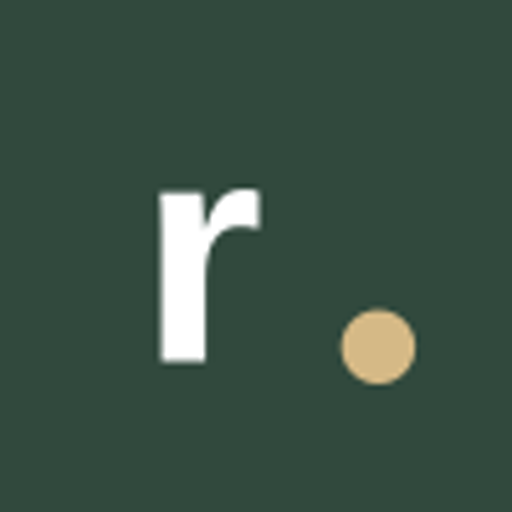
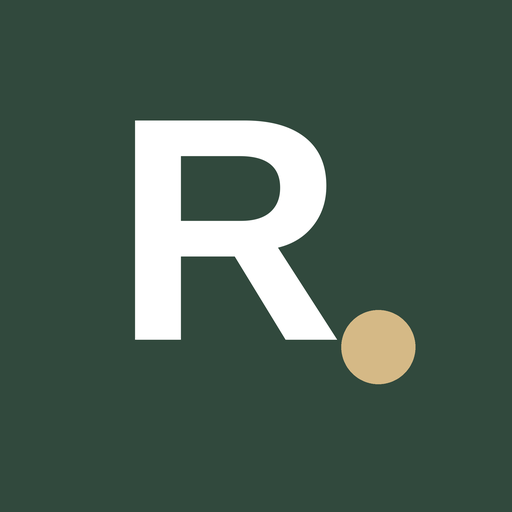
feat: update project name and database references from 'barberia' to 'resolvemesto', enhance .gitignore, and improve manifest details

Changed region(s): [[0.25, 0.2188, 0.6875, 0.7188], [0.6875, 0.625, 0.8125, 0.75], [0.6875, 0.5938, 0.7812, 0.625]]

diff --git a/public/index.html b/public/index.html
@@ -2,22 +2,22 @@
 <html lang="es">
 <head>
   <meta charset="utf-8"><meta name="viewport" content="width=device-width, initial-scale=1, viewport-fit=cover"><meta name="theme-color" content="#f6f5f2">
-  <title>Ritual · Gestión simple</title><link rel="icon" type="image/svg+xml" href="/icon.svg"><link rel="apple-touch-icon" href="/apple-touch-icon.png"><link rel="stylesheet" href="/styles.css?v=20261016-2">
+  <title>Resolvemesto · Gestión simple</title><link rel="icon" type="image/svg+xml" href="/icon.svg"><link rel="apple-touch-icon" href="/apple-touch-icon.png"><link rel="stylesheet" href="/styles.css?v=20261017-1">
 </head>
 <body>
   <div id="loading" class="loading-bar" aria-hidden="true"></div><div id="toast" class="toast" role="status" aria-live="polite"></div>
   <main id="auth" class="auth-wrap">
     <section class="auth-card">
-      <div class="brand-mark">r<span>.</span></div><p class="eyebrow" id="auth-eyebrow">GESTIÓN SIMPLE</p><h1 id="auth-title">Tu espacio,<br>en orden.</h1><p class="muted" id="auth-copy">Ventas, equipo y actividad en un solo lugar.</p>
+      <div class="brand-mark">R<span>.</span></div><p class="eyebrow" id="auth-eyebrow">RESOLVEMESTO · GESTIÓN SIMPLE</p><h1 id="auth-title">Tu espacio,<br>en orden.</h1><p class="muted" id="auth-copy">Ventas, equipo y actividad en un solo lugar.</p>
       <div class="auth-tabs"><button class="tab active" data-auth="login">Ingresar</button><button class="tab" data-auth="register">Crear usuario</button></div>
       <form id="auth-form"><div id="name-field" class="field hidden"><label>Tu nombre</label><input name="name" autocomplete="name" maxlength="100" placeholder="Ej. Lucía Gómez"></div><div id="business-name-field" class="field hidden"><label>Nombre del negocio</label><input name="business_name" maxlength="120" placeholder="Ej. Estudio Norte"></div><div id="auth-photo-field" class="field hidden"><label>Foto de perfil <span class="optional">· opcional</span></label><div class="photo-picker"><div class="photo-preview" id="auth-photo-preview">+</div><div><input id="auth-photo-file" class="visually-hidden" type="file" accept="image/*"><input id="auth-photo-camera" class="visually-hidden" type="file" accept="image/*" capture="user"><label class="button secondary photo-action" for="auth-photo-file">Elegir archivo</label><label class="button secondary photo-action" for="auth-photo-camera">Usar cámara</label></div></div></div><div class="field"><label>Email</label><input name="email" type="email" autocomplete="email" required maxlength="254" placeholder="vos@ejemplo.com"></div><div class="field"><label>Contraseña</label><input name="password" type="password" autocomplete="current-password" required minlength="10" maxlength="200" placeholder="Mínimo 10 caracteres"></div><button class="button primary full" type="submit" id="auth-submit">Ingresar</button></form>
     </section>
   </main>
   <main id="waiting" class="setup-wrap hidden">
-    <section class="setup-card"><div class="brand-mark">r<span>.</span></div><p class="eyebrow">CUENTA CREADA</p><h1>Esperando acceso<br>a tu negocio.</h1><p class="muted">Un administrador debe sumarte a su equipo. Cuando lo haga, ingresá nuevamente para continuar.</p><button class="button secondary full" id="waiting-logout" type="button">Cerrar sesión</button></section>
+    <section class="setup-card"><div class="brand-mark">R<span>.</span></div><p class="eyebrow">RESOLVEMESTO · CUENTA CREADA</p><h1>Esperando acceso<br>a tu negocio.</h1><p class="muted">Un administrador debe sumarte a su equipo. Cuando lo haga, ingresá nuevamente para continuar.</p><button class="button secondary full" id="waiting-logout" type="button">Cerrar sesión</button></section>
   </main>
   <div id="app" class="app hidden">
-    <aside class="sidebar"><a class="brand" href="#"><span class="brand-mark small">r<span>.</span></span><span>ritual</span></a><div id="business-picker"></div><nav><button class="nav-link active" data-page="home"><span>⌂</span> Resumen</button><button class="nav-link" data-page="new-sale"><span>＋</span> Nueva venta</button><button class="nav-link" data-page="sales"><span>▤</span> Ventas</button><button class="nav-link" data-page="customers"><span>♙</span> Clientes</button><button class="nav-link" data-page="catalog"><span>◈</span> Servicios y productos</button><button class="nav-link admin-only hidden" data-page="business"><span>⌘</span> Mi negocio</button><button class="nav-link" data-page="team"><span>♧</span> Equipo</button><button class="nav-link admin-only hidden" data-page="audit"><span>◷</span> Auditoría</button></nav><div class="sidebar-bottom"><div class="sidebar-actions"><button class="nav-link theme-toggle" type="button" aria-label="Activar modo oscuro"><span class="action-icon">☾</span><span class="theme-label action-label">Oscuro</span></button><button class="nav-link shortcut-trigger hidden" type="button" aria-label="Agregar esta pantalla al inicio del celular" title="Acceso Rapido"><span class="action-icon">⌂＋</span><span class="action-label">Acceso Rapido</span></button></div><button class="nav-link" id="logout"><span>↗</span> Cerrar sesión</button><button class="profile" id="edit-profile" type="button" title="Editar foto de perfil"><div class="avatar" id="avatar">·</div><div><strong id="profile-name"></strong><small id="profile-email"></small></div></button></div></aside>
+    <aside class="sidebar"><a class="brand" href="#"><span class="brand-mark small">R<span>.</span></span><span>Resolvemesto</span></a><div id="business-picker"></div><nav><button class="nav-link active" data-page="home"><span>⌂</span> Resumen</button><button class="nav-link" data-page="new-sale"><span>＋</span> Nueva venta</button><button class="nav-link" data-page="sales"><span>▤</span> Ventas</button><button class="nav-link" data-page="customers"><span>♙</span> Clientes</button><button class="nav-link" data-page="catalog"><span>◈</span> Servicios y productos</button><button class="nav-link admin-only hidden" data-page="business"><span>⌘</span> Mi negocio</button><button class="nav-link" data-page="team"><span>♧</span> Equipo</button><button class="nav-link admin-only hidden" data-page="audit"><span>◷</span> Auditoría</button></nav><div class="sidebar-bottom"><div class="sidebar-actions"><button class="nav-link theme-toggle" type="button" aria-label="Activar modo oscuro"><span class="action-icon">☾</span><span class="theme-label action-label">Oscuro</span></button><button class="nav-link shortcut-trigger hidden" type="button" aria-label="Agregar esta pantalla al inicio del celular" title="Acceso Rapido"><span class="action-icon">⌂＋</span><span class="action-label">Acceso Rapido</span></button></div><button class="nav-link" id="logout"><span>↗</span> Cerrar sesión</button><button class="profile" id="edit-profile" type="button" title="Editar foto de perfil"><div class="avatar" id="avatar">·</div><div><strong id="profile-name"></strong><small id="profile-email"></small></div></button></div></aside>
     <div class="main-column"><header class="topbar"><button id="menu-toggle" class="icon-button" type="button" aria-label="Abrir menú" aria-expanded="false">☰</button><div class="top-business"><div id="logo-preview" class="logo-preview">✦</div><div><strong id="top-name"></strong><small id="top-role"></small></div></div><div class="topbar-right"><div class="date-range"><label>Desde <input id="date-start" type="date"></label><label>Hasta <input id="date-end" type="date"></label></div></div></header>
       <section class="content"><div class="page-heading"><div><p class="eyebrow" id="greeting">TU NEGOCIO</p><h1 id="page-title">Resumen</h1></div><button class="button primary" data-go="new-sale">＋ <span>Nueva venta</span></button></div>
       <section id="page-home" class="page"><article class="data-note"><span>●</span><div><strong id="pulse-title">Resumen basado en ventas registradas</strong><small id="pulse-copy">Todavía no hay datos de agenda, caja, stock ni ocupación para evaluar el estado del negocio.</small></div></article><div id="stat-grid" class="stat-grid"><article class="stat-card"><div class="stat-icon lilac">$</div><span id="stat-revenue-label">Facturación</span><strong id="stat-revenue">$0</strong><small id="stat-revenue-caption">Sin comparación disponible</small></article><article id="stat-tickets-card" class="stat-card personal-only hidden"><div class="stat-icon sky">✓</div><span>Mis atenciones</span><strong id="stat-tickets">0</strong><small>Tickets a tu nombre</small></article><article class="stat-card"><div class="stat-icon sky">◷</div><span>Ticket promedio</span><strong id="stat-average-ticket">$0</strong><small id="stat-average-caption">0 operaciones registradas</small></article><article class="stat-card"><div class="stat-icon mint">✂</div><span>Servicios realizados</span><strong id="stat-services">0</strong><small>Servicios en tickets</small></article><article class="stat-card"><div class="stat-icon peach">▧</div><span>Productos vendidos</span><strong id="stat-products">0</strong><small>Unidades en tickets</small></article></div>
@@ -28,7 +28,7 @@
       <section id="page-sales" class="page hidden"><article class="panel sales-panel"><div class="panel-heading"><div><h2>Ventas realizadas</h2><p>Consultá el detalle y corregí las ventas que cargaste.</p></div></div><div id="sales-list"></div></article></section>
       <section id="page-customers" class="page hidden"><div class="customers-panel panel"><div class="panel-heading"><div><h2>Clientes</h2><p>Datos de contacto y última operación</p></div><button class="button primary" id="new-customer">＋ Nuevo cliente</button></div><div id="customers-list"></div></div></section>
       <section id="page-catalog" class="page hidden"><div class="catalog-grid"><article class="panel"><div class="panel-heading"><div><h2>Tu catálogo</h2><p>Servicios y productos con sus precios</p></div></div><div class="add-form"><form id="catalog-form"><div class="field"><label>Nombre</label><input name="name" required placeholder="Ej. Corte clásico"></div><div class="field"><label>Tipo</label><select name="type"><option value="service">Servicio</option><option value="product">Producto</option></select></div><div class="field"><label>Precio (ARS)</label><input name="price" required type="number" min="0" step="1" placeholder="8500"></div><button class="button primary">Agregar</button></form></div><div class="catalog-tools"><div class="catalog-filter" role="group" aria-label="Filtrar catálogo"><button class="catalog-filter-button active" data-catalog-filter="active" type="button">Activos</button><button class="catalog-filter-button" data-catalog-filter="inactive" type="button">Inactivos</button><button class="catalog-filter-button" data-catalog-filter="all" type="button">Todos</button></div><div class="catalog-search"><input id="catalog-search" type="search" placeholder="Buscar productos o servicios…" aria-label="Buscar en el catálogo"></div></div><div id="catalog-list"></div></article></div></section>
-      <section id="page-business" class="page hidden"><article class="panel brand-panel"><div class="panel-heading"><div><h2>Datos de la barbería</h2><p>Actualizá el nombre y el logo que verá tu equipo.</p></div></div><form id="brand-form"><div class="field"><label>Nombre de la barbería</label><input name="name" id="brand-name" required></div><div class="field"><label>Logo</label><input name="logo" type="file" accept="image/*"></div><div id="brand-logo-preview" class="brand-logo-preview">✦</div><button class="button primary">Guardar cambios</button></form></article></section>
+      <section id="page-business" class="page hidden"><article class="panel brand-panel"><div class="panel-heading"><div><h2>Datos del negocio</h2><p>Actualizá el nombre y el logo que verá tu equipo.</p></div></div><form id="brand-form"><div class="field"><label>Nombre del negocio</label><input name="name" id="brand-name" required></div><div class="field"><label>Logo</label><input name="logo" type="file" accept="image/*"></div><div id="brand-logo-preview" class="brand-logo-preview">✦</div><button class="button primary">Guardar cambios</button></form></article></section>
       <section id="page-team" class="page hidden"><div class="team-grid"><article class="panel"><div class="panel-heading"><div><h2>Personas</h2><p>Los empleados ven nombres y roles; los emails quedan reservados para administración.</p></div></div><div id="team-list"></div></article><article id="team-add-panel" class="panel"><div class="panel-heading"><div><h2>Sumar al equipo</h2><p>Creá una cuenta o vinculá una ya registrada.</p></div></div><form id="team-form"><div class="field"><label>Nombre <span class="optional">· para cuenta nueva</span></label><input name="name" autocomplete="name" maxlength="100" placeholder="Ej. Lucía Gómez"></div><div class="field"><label>Email</label><input name="email" type="email" required maxlength="254" placeholder="persona@ejemplo.com"></div><div class="field"><label>Contraseña inicial <span class="optional">· para cuenta nueva</span></label><input name="password" type="password" minlength="10" maxlength="200" autocomplete="new-password" placeholder="Mínimo 10 caracteres"></div><div class="field"><label>Permisos</label><select name="role"><option value="employee">Empleado</option><option value="admin">Administrador</option></select></div><button class="button primary">Agregar persona</button></form><p class="form-note">Para vincular una cuenta existente, ingresá solo su email. Cada persona gestiona su propia contraseña.</p></article></div></section>
       <section id="page-audit" class="page hidden"><article class="panel"><div class="panel-heading"><div><h2>Historial de cambios</h2><p>Quién cambió ventas, catálogo y datos del negocio, y cuándo.</p></div></div><div id="audit-list" class="audit-list"></div></article></section>
       </section>
@@ -40,5 +40,5 @@
   <div id="profile-modal" class="modal hidden" role="dialog" aria-modal="true" aria-labelledby="profile-modal-title"><div class="modal-card"><div class="panel-heading"><div><h2 id="profile-modal-title">Editar perfil</h2><p>Actualizá tu foto o contraseña.</p></div><button type="button" class="close-profile-modal" aria-label="Cerrar">×</button></div><form id="profile-form"><input type="hidden" name="profile_photo"><div class="photo-editor"><div class="photo-preview large" id="profile-photo-preview">+</div><div><input id="profile-photo-file" class="visually-hidden" type="file" accept="image/*"><input id="profile-photo-camera" class="visually-hidden" type="file" accept="image/*" capture="user"><label class="button secondary photo-action" for="profile-photo-file">Elegir archivo</label><label class="button secondary photo-action" for="profile-photo-camera">Usar cámara</label></div></div><div class="field"><label>Contraseña actual <span class="optional">· solo para cambiarla</span></label><input name="current_password" type="password" autocomplete="current-password"></div><div class="field"><label>Nueva contraseña <span class="optional">· mínimo 10 caracteres</span></label><input name="password" type="password" minlength="10" maxlength="200" autocomplete="new-password"></div><button class="button primary full" type="submit">Guardar cambios</button></form></div></div>
   <div id="sale-modal" class="modal hidden" role="dialog" aria-modal="true" aria-labelledby="sale-modal-title"><div class="modal-card sale-modal-card"><div class="panel-heading"><div><h2 id="sale-modal-title">Detalle de venta</h2><p id="sale-modal-copy">Revisá los datos registrados.</p></div><button type="button" class="close-sale-modal" aria-label="Cerrar">×</button></div><div id="sale-status" class="sale-status hidden"></div><form id="edit-sale-form"><input type="hidden" name="id"><div class="field"><label>Cliente <span class="optional">· opcional</span></label><select name="customer_id" id="edit-sale-customer"><option value="">Sin cliente</option></select></div><div class="field"><label>Atendió</label><select name="employee_id" id="edit-sale-employee" required></select></div><div class="field"><label>Servicios y productos</label><select id="edit-item-picker"><option value="">Sumar al ticket…</option></select></div><div id="edit-cart" class="cart"></div><div class="sale-details"><div class="field"><label>Medio de pago</label><select name="payment_method"><option value="cash">Efectivo</option><option value="debit">Débito</option><option value="credit">Crédito</option><option value="transfer">Transferencia</option><option value="other">Otro</option></select></div><div class="field"><label>Descuento (ARS)</label><input name="discount" type="number" min="0" step="1" value="0"></div></div><div class="field"><label>Notas <span class="optional">· opcional</span></label><textarea name="notes" maxlength="500" rows="3"></textarea></div><div class="sale-total"><span>Total</span><strong id="edit-sale-total">$0</strong></div><div class="sale-actions"><button id="void-sale" class="button danger" type="button">Anular venta</button><button id="edit-sale-submit" class="button primary" type="submit">Guardar cambios</button></div></form></div></div>
   <div id="catalog-modal" class="modal hidden" role="dialog" aria-modal="true" aria-labelledby="catalog-modal-title"><div class="modal-card"><div class="panel-heading"><div><h2 id="catalog-modal-title">Editar producto</h2><p id="catalog-modal-copy">El precio nuevo se aplicará solo a ventas futuras.</p></div><button type="button" class="close-catalog-modal" aria-label="Cerrar">×</button></div><form id="catalog-edit-form"><input type="hidden" name="id"><input type="hidden" name="photo"><div class="field"><label>Foto <span class="optional">· opcional</span></label><div class="photo-picker"><div class="photo-preview" id="catalog-photo-preview">▧</div><div><input id="catalog-photo-file" class="visually-hidden" type="file" accept="image/*"><label class="button secondary photo-action" for="catalog-photo-file">Elegir archivo</label></div></div></div><div class="field"><label>Nombre</label><input name="name" required maxlength="120"></div><div class="field"><label>Precio (ARS)</label><input name="price" required type="number" min="0" step="1"></div><div class="field"><label>Estado</label><select name="active"><option value="true">Activo</option><option value="false">Inactivo</option></select></div><p class="form-note">Las ventas anteriores conservan el precio cobrado. Cualquier corrección de una venta queda registrada en Auditoría.</p><button class="button primary full" type="submit">Guardar cambios</button></form></div></div>
-  <script src="/app.js?v=20261016-2" defer></script>
+  <script src="/app.js?v=20261017-1" defer></script>
 </body></html>

diff --git a/public/app.js b/public/app.js
@@ -18,7 +18,7 @@ async function api(path, options={}) {
 }
 function setLoading(active) { document.body.toggleAttribute('aria-busy',active); $('#loading').classList.toggle('show',active); $$('button[type="submit"]').forEach(button=>button.disabled=active); }
 function toast(message,kind='info') { const el=$('#toast'); el.textContent=message; el.dataset.kind=kind; el.setAttribute('role',kind==='error'?'alert':'status'); el.classList.add('show'); clearTimeout(toastTimer); toastTimer=setTimeout(()=>el.classList.remove('show'),4500); }
-function show(id) { ['auth','waiting','app'].forEach(name=>$('#'+name).classList.toggle('hidden',name!==id)); if(id!=='app')document.title='Ritual · Gestión simple'; }
+function show(id) { ['auth','waiting','app'].forEach(name=>$('#'+name).classList.toggle('hidden',name!==id)); if(id!=='app')document.title='Resolvemesto · Gestión simple'; }
 function initials(name) { return String(name||'').trim().slice(0,1).toUpperCase()||'·'; }
 function setPhoto(element, photo, fallback='+') { element.replaceChildren(); if(photo) { const image=document.createElement('img'); image.src=photo; image.alt='Foto de perfil'; element.append(image); } else element.textContent=fallback; }
 function setAuthMode(mode) {
@@ -28,12 +28,12 @@ function setAuthMode(mode) {
   const password=$('#auth-form').elements.password; password.minLength=registering?10:1; password.placeholder=registering?'Mínimo 10 caracteres':'Tu contraseña'; password.autocomplete=registering?'new-password':'current-password';
   $('#auth-submit').textContent=registering?(mode==='admin-register'?'Crear negocio y cuenta':'Crear usuario'):'Ingresar';
 }
-function selectBusiness(next) { business=next; localStorage.setItem('ritual-business',String(next.id)); $('#top-name').textContent=next.name; $('#top-role').textContent=next.role==='admin'?'Administración':'Equipo'; $('#brand-name').value=next.name; }
+function selectBusiness(next) { business=next; localStorage.setItem('resolvemesto-business',String(next.id)); $('#top-name').textContent=next.name; $('#top-role').textContent=next.role==='admin'?'Administración':'Equipo'; $('#brand-name').value=next.name; }
 async function start() {
   try { const data=await api('/api/me'); me=data.user; $('#profile-name').textContent=me.name; $('#profile-email').textContent=me.email; setPhoto($('#avatar'),me.profile_photo,initials(me.name));
     if(!data.businesses.length) { show('waiting'); return; }
     $('#business-picker').replaceChildren();
-    const saved=localStorage.getItem('ritual-business'); selectBusiness(data.businesses.find(x=>String(x.id)===saved)||data.businesses[0]);
+    const saved=localStorage.getItem('resolvemesto-business'); selectBusiness(data.businesses.find(x=>String(x.id)===saved)||data.businesses[0]);
     if(data.businesses.length>1) { const pick=document.createElement('select'); pick.className='business-select'; pick.setAttribute('aria-label','Elegir espacio'); data.businesses.forEach(item=>{const option=document.createElement('option');option.value=item.id;option.textContent=item.name;option.selected=item.id===business.id;pick.append(option)}); pick.addEventListener('change',()=>{selectBusiness(data.businesses.find(x=>String(x.id)===pick.value));startApp()}); $('#business-picker').append(pick); }
     show('app'); await startApp();
   } catch(error) { if(error.status===401)show('auth'); else { toast(error.message,'error'); if(me)show('app'); } }
@@ -117,13 +117,13 @@ connectPhotoInputs({file:$('#customer-photo-file'),camera:$('#customer-photo-cam
 connectPhotoInputs({file:$('#profile-photo-file'),camera:$('#profile-photo-camera'),preview:$('#profile-photo-preview'),target:$('#profile-form').elements.profile_photo,fallback:initials('')});
 $$('.tab').forEach(tab=>tab.addEventListener('click',()=>setAuthMode(tab.dataset.auth)));
 $('#auth-form').addEventListener('submit',async event=>{event.preventDefault(); const formElement=event.currentTarget; const form=new FormData(formElement); const data=Object.fromEntries(form); try { if(authMode==='register') await api('/api/register',{method:'POST',body:JSON.stringify(data)}); if(authMode==='admin-register') await api('/api/admin/register',{method:'POST',body:JSON.stringify(data)}); await api('/api/login',{method:'POST',body:JSON.stringify({email:data.email,password:data.password})}); formElement.reset(); setPhoto($('#auth-photo-preview'),null); await start(); } catch(error) { toast(error.message); } });
-$('#logout').addEventListener('click',async()=>{await api('/api/logout',{method:'POST'});localStorage.removeItem('ritual-business');me=null;business=null;show('auth')});
+$('#logout').addEventListener('click',async()=>{await api('/api/logout',{method:'POST'});localStorage.removeItem('resolvemesto-business');me=null;business=null;show('auth')});
 $('#waiting-logout').addEventListener('click',async()=>{await api('/api/logout',{method:'POST'});me=null;business=null;show('auth')});
 $$('.nav-link[data-page]').forEach(button=>button.addEventListener('click',()=>navigate(button.dataset.page)));
 $$('.mobile-dock [data-page]').forEach(button=>button.addEventListener('click',()=>navigate(button.dataset.page)));
 const themeToggle=$('.theme-toggle');
-function setTheme(theme){document.documentElement.dataset.theme=theme;localStorage.setItem('ritual-theme',theme);const dark=theme==='dark';themeToggle.setAttribute('aria-label',dark?'Activar modo claro':'Activar modo oscuro');themeToggle.innerHTML=`<span class="action-icon">${dark?'☀':'☾'}</span><span class="theme-label action-label">${dark?'Claro':'Oscuro'}</span>`;}
-setTheme(localStorage.getItem('ritual-theme')||'light');
+function setTheme(theme){document.documentElement.dataset.theme=theme;localStorage.setItem('resolvemesto-theme',theme);const dark=theme==='dark';themeToggle.setAttribute('aria-label',dark?'Activar modo claro':'Activar modo oscuro');themeToggle.innerHTML=`<span class="action-icon">${dark?'☀':'☾'}</span><span class="theme-label action-label">${dark?'Claro':'Oscuro'}</span>`;}
+setTheme(localStorage.getItem('resolvemesto-theme')||'light');
 themeToggle.addEventListener('click',()=>setTheme(document.documentElement.dataset.theme==='dark'?'light':'dark'));
 $$('[data-go]').forEach(button=>button.addEventListener('click',()=>navigate(button.dataset.go)));
 const pageTitles={home:'Resumen','new-sale':'Nueva venta',sales:'Ventas realizadas',customers:'Clientes',catalog:'Servicios y productos',business:'Mi negocio',team:'Equipo',audit:'Auditoría'};
@@ -148,7 +148,7 @@ function navigate(page,updateUrl=true) {
   $$('.nav-link[data-page],.mobile-dock [data-page]').forEach(button=>button.classList.toggle('active',button.dataset.page===page));
   $$('.page').forEach(section=>section.classList.toggle('hidden',section.id!=='page-'+page));
   $('#page-title').textContent=pageTitles[page];
-  document.title=page==='home'?'Ritual · Gestión simple':`${pageTitles[page]} · Ritual`;
+  document.title=page==='home'?'Resolvemesto · Gestión simple':`${pageTitles[page]} · Resolvemesto`;
   $('.sidebar').classList.remove('open'); menuToggle.setAttribute('aria-expanded','false');
   if(page==='new-sale')$('#sale-customer').focus();
   if(page==='sales')loadSales().catch(error=>toast(error.message,'error'));
@@ -242,9 +242,9 @@ function closeProfileModal() { $('#profile-modal').classList.add('hidden'); }
 $('#edit-profile').addEventListener('click',openProfileModal);
 $('.close-profile-modal').addEventListener('click',closeProfileModal);
 $('#profile-modal').addEventListener('click',event=>{if(event.target===event.currentTarget)closeProfileModal()});
-$('#profile-form').addEventListener('submit',async event=>{event.preventDefault();try { const form=event.currentTarget,profile_photo=form.elements.profile_photo.value,password=form.elements.password.value,currentPassword=form.elements.current_password.value; await api('/api/profile',{method:'PATCH',body:JSON.stringify({profile_photo})}); me.profile_photo=profile_photo||null; setPhoto($('#avatar'),me.profile_photo,initials(me.name)); if(password||currentPassword) { await api('/api/password',{method:'PATCH',body:JSON.stringify({current_password:currentPassword,password})}); form.reset(); closeProfileModal(); localStorage.removeItem('ritual-business'); me=null;business=null;show('auth');toast('Contraseña actualizada. Volvé a ingresar.'); return; } closeProfileModal();toast('Perfil actualizado.'); } catch(error) { toast(error.message,'error'); }});
+$('#profile-form').addEventListener('submit',async event=>{event.preventDefault();try { const form=event.currentTarget,profile_photo=form.elements.profile_photo.value,password=form.elements.password.value,currentPassword=form.elements.current_password.value; await api('/api/profile',{method:'PATCH',body:JSON.stringify({profile_photo})}); me.profile_photo=profile_photo||null; setPhoto($('#avatar'),me.profile_photo,initials(me.name)); if(password||currentPassword) { await api('/api/password',{method:'PATCH',body:JSON.stringify({current_password:currentPassword,password})}); form.reset(); closeProfileModal(); localStorage.removeItem('resolvemesto-business'); me=null;business=null;show('auth');toast('Contraseña actualizada. Volvé a ingresar.'); return; } closeProfileModal();toast('Perfil actualizado.'); } catch(error) { toast(error.message,'error'); }});
 document.addEventListener('keydown',event=>{if(event.key!=='Escape')return; closeCustomerModal();closeProfileModal();closeSaleModal();closeCatalogModal();closeShortcutModal();sidebar.classList.remove('open');menuToggle.setAttribute('aria-expanded','false');});
 if(adminRegistration) {
-  $$('.auth-tabs').forEach(el=>el.classList.add('hidden')); $('#auth-eyebrow').textContent='ALTA ADMINISTRATIVA'; $('#auth-title').innerHTML='Creá tu negocio,<br>en orden.'; $('#auth-copy').textContent='Esta es la única vía para crear un negocio y su cuenta administradora.'; setAuthMode('admin-register');
+  $$('.auth-tabs').forEach(el=>el.classList.add('hidden')); $('#auth-eyebrow').textContent='RESOLVEMESTO · ALTA ADMINISTRATIVA'; $('#auth-title').innerHTML='Creá tu negocio,<br>en orden.'; $('#auth-copy').textContent='Esta es la única vía para crear un negocio y su cuenta administradora.'; setAuthMode('admin-register');
 } else setAuthMode('login');
 start();

diff --git a/src/service.js b/src/service.js
@@ -75,7 +75,7 @@ export class Service {
 
   authorizeBusiness(user,businessId) {
     const business=Number.isInteger(businessId)&&businessId>0?this.repository.findBusinessMembership(businessId,user.id):null;
-    if(!business)throw forbidden('No tenés acceso a esta barbería.');
+    if(!business)throw forbidden('No tenés acceso a este negocio.');
     return business;
   }
 
@@ -90,11 +90,11 @@ export class Service {
   }
 
   listCustomers(context) {
-    return this.repository.listCustomers(context.business.id).map(customer=>({...customer,email:customer.email.endsWith('@ritual.internal')?'':customer.email,code:String(customer.id).padStart(5,'0')}));
+    return this.repository.listCustomers(context.business.id).map(customer=>({...customer,email:/@(ritual|resolvemesto)\.internal$/.test(customer.email)?'':customer.email,code:String(customer.id).padStart(5,'0')}));
   }
 
   createCustomer(context,input) {
-    const customer=this.#customerInput(input),storedEmail=customer.email||`${randomUUID()}@ritual.internal`;
+    const customer=this.#customerInput(input),storedEmail=customer.email||`${randomUUID()}@resolvemesto.internal`;
     try {
       return this.repository.transaction(()=>{
         const id=this.repository.createCustomer(context.business.id,{...customer,email:storedEmail});
@@ -110,7 +110,7 @@ export class Service {
     if(!Number.isInteger(customerId)||customerId<1)throw badRequest('Completá nombre y teléfono; si ingresás un email, debe ser válido.');
     const customer=this.#customerInput(input),before=this.repository.getCustomer(customerId,context.business.id);
     if(!before)throw notFound('Cliente no encontrado.');
-    const storedEmail=customer.email||`${randomUUID()}@ritual.internal`,after={full_name:customer.fullName,phone:customer.phone,email:storedEmail,profile_photo:customer.profilePhoto};
+    const storedEmail=customer.email||`${randomUUID()}@resolvemesto.internal`,after={full_name:customer.fullName,phone:customer.phone,email:storedEmail,profile_photo:customer.profilePhoto};
     try { this.repository.transaction(()=>{ this.repository.updateCustomer(customerId,context.business.id,{...customer,email:storedEmail}); this.#audit(context,'updated','customer',customerId,before,after); }); return {ok:true}; }
     catch(error) { if(isUnique(error,'customers.business_id, customers.email'))throw conflict('Ya existe un cliente con ese email.'); throw error; }
   }

diff --git a/test/e2e.test.js b/test/e2e.test.js
@@ -8,7 +8,7 @@ import { join, resolve } from 'node:path';
 const projectRoot=resolve(import.meta.dirname,'..');
 
 async function startServer() {
-  const directory=await mkdtemp(join(tmpdir(),'ritual-e2e-'));
+  const directory=await mkdtemp(join(tmpdir(),'resolvemesto-e2e-'));
   const child=spawn(process.execPath,['server.js'],{cwd:projectRoot,env:{...process.env,PORT:'0',DB_PATH:join(directory,'test.sqlite')},stdio:['ignore','pipe','pipe']});
   const url=await new Promise((resolveUrl,reject)=>{
     let output='';
@@ -46,7 +46,8 @@ test('flujos críticos, permisos, trazabilidad y aislamiento entre negocios',asy
   const manifest=await manifestResponse.json();
   assert.equal(manifestResponse.headers.get('content-type'),'application/manifest+json; charset=utf-8');
   assert.equal(manifest.start_url,'/#/customers');
-  assert.equal(manifest.id,'/ritual-customers');
+  assert.equal(manifest.id,'/resolvemesto-customers');
+  assert.equal(manifest.name,'Resolvemesto · Clientes');
   assert.deepEqual(manifest.icons.map(icon=>icon.sizes),['192x192','512x512']);
   const admin=client(server.url),employee=client(server.url),otherAdmin=client(server.url);
   const adminPassword='AdminSeguro!2026',employeePassword='Empleado!2026';
@@ -119,7 +120,7 @@ test('flujos críticos, permisos, trazabilidad y aislamiento entre negocios',asy
 test('rutas CRUD conservan sus contratos después de separar las capas',async t=>{
   const server=await startServer();
   t.after(async()=>{ server.child.kill('SIGTERM'); await new Promise(resolve=>server.child.once('exit',resolve)); await rm(server.directory,{recursive:true,force:true}); });
-  const page=await fetch(server.url+'/'); assert.equal(page.status,200); assert.match(await page.text(),/<title>Ritual/);
+  const page=await fetch(server.url+'/'); assert.equal(page.status,200); assert.match(await page.text(),/<title>Resolvemesto/);
   const admin=client(server.url),business=await registerAdmin(admin,{name:'Admin CRUD',email:'crud@example.com',password:'CrudSeguro!2026',business:'Nombre inicial'});
 
   assert.equal((await admin.request('/api/business',{method:'PATCH',businessId:business.id,body:{name:'Nombre actualizado',logo:''}})).status,200);

diff --git a/src/handler.js b/src/handler.js
@@ -17,7 +17,7 @@ export class Handler {
     const url=new URL(req.url,'http://localhost'),path=url.pathname,method=req.method;
     if(method==='GET'&&path==='/manifest.webmanifest') {
       const page=Object.hasOwn(installPages,url.searchParams.get('page'))?url.searchParams.get('page'):'home';
-      const manifest={id:`/ritual-${page}`,name:`Ritual · ${installPages[page]}`,short_name:`Ritual ${installPages[page]}`,start_url:`/#/${page}`,scope:'/',display:'standalone',background_color:'#f6f5f2',theme_color:'#31493d',icons:[{src:'/icon-192.png',sizes:'192x192',type:'image/png'},{src:'/icon-512.png',sizes:'512x512',type:'image/png'}]};
+      const manifest={id:`/resolvemesto-${page}`,name:`Resolvemesto · ${installPages[page]}`,short_name:`Resolvemesto ${installPages[page]}`,start_url:`/#/${page}`,scope:'/',display:'standalone',background_color:'#f6f5f2',theme_color:'#31493d',icons:[{src:'/icon-192.png',sizes:'192x192',type:'image/png'},{src:'/icon-512.png',sizes:'512x512',type:'image/png'}]};
       res.writeHead(200,{'content-type':'application/manifest+json; charset=utf-8','cache-control':'no-store'}); res.end(JSON.stringify(manifest)); return;
     }
     if(method==='GET'&&!path.startsWith('/api/'))return this.#static(path,res);

diff --git a/src/database.js b/src/database.js
@@ -1,9 +1,12 @@
 import { join } from 'node:path';
+import { existsSync } from 'node:fs';
 import { DatabaseSync } from 'node:sqlite';
 
 const root=new URL('..',import.meta.url).pathname;
+const currentDatabase=join(root,'resolvemesto.sqlite');
+const previousDatabase=join(root,'barberia.sqlite');
 
-export function createDatabase(path=process.env.DB_PATH||join(root,'barberia.sqlite')) {
+export function createDatabase(path=process.env.DB_PATH||(existsSync(currentDatabase)||!existsSync(previousDatabase)?currentDatabase:previousDatabase)) {
   const db=new DatabaseSync(path);
   db.exec(`PRAGMA foreign_keys=ON;
 PRAGMA journal_mode=WAL;

diff --git a/README.md b/README.md
@@ -1,4 +1,4 @@
-# Ritual · gestión para barberías y salones
+# Resolvemesto · gestión para barberías y salones
 
 MVP web para registrar servicios y productos, organizar el equipo y consultar la actividad del negocio. La interfaz está en español, muestra precios en pesos argentinos y se adapta a celulares.
 
@@ -12,7 +12,7 @@ MVP web para registrar servicios y productos, organizar el equipo y consultar la
 
 El servidor escribe logs JSON en la terminal. Cada solicitud API incluye un `request_id`, método, ruta, estado y duración; ante errores internos también registra el código y mensaje técnico. No registra contraseñas ni emails.
 
-La base `barberia.sqlite` se crea automáticamente en el directorio del proyecto. Conservá ese archivo para guardar los datos y respaldalo periódicamente. En un despliegue, montá almacenamiento persistente para la base y mantené el proceso en una sola instancia.
+La base `resolvemesto.sqlite` se crea automáticamente en el directorio del proyecto. Si ya existe una base `barberia.sqlite`, la aplicación sigue usándola para conservar los datos. También podés indicar la ubicación con `DB_PATH`. Conservá ese archivo para guardar los datos y respaldalo periódicamente. En un despliegue, montá almacenamiento persistente para la base y mantené el proceso en una sola instancia.
 
 ## Primer uso
 
